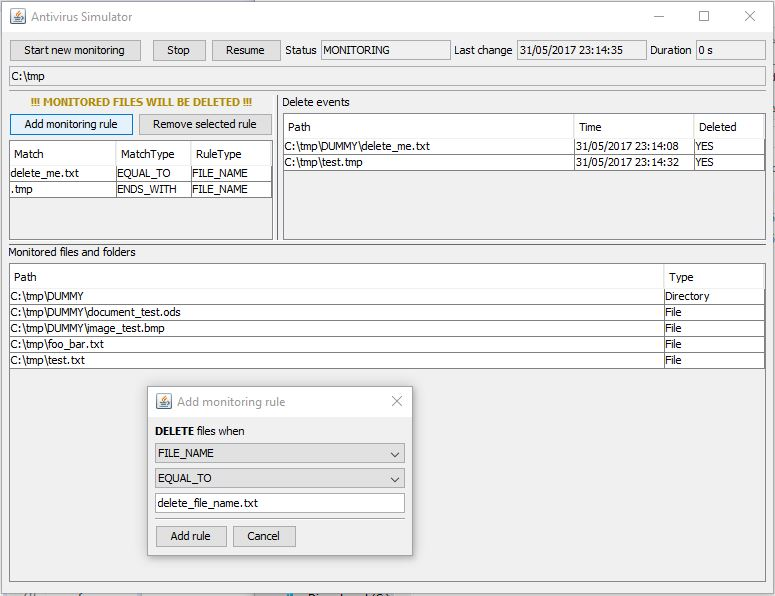
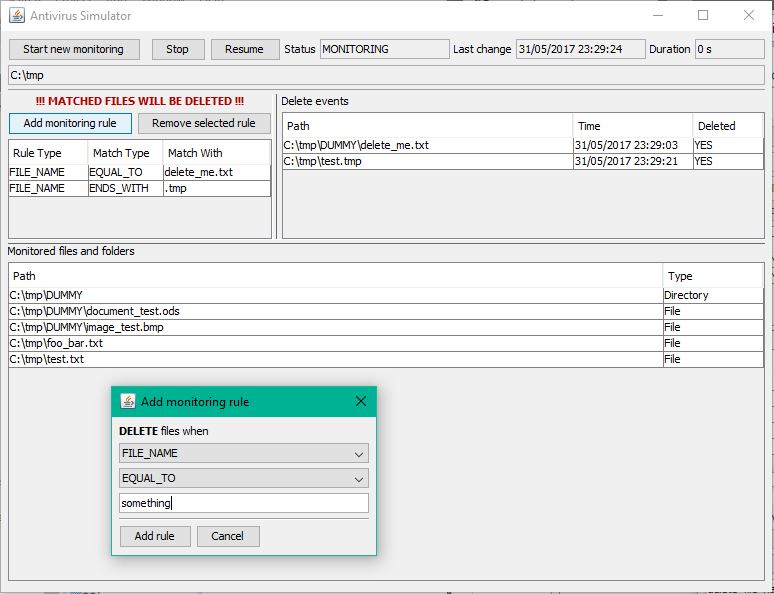
Visual adjustments

Changed region(s): [[0.0, 0.0, 1.0, 1.0], [0.9922, 0.303, 1.0, 0.4242], [0.8682, 0.4545, 0.8992, 0.5152]]

diff --git a/src/main/java/org/teste/avs/view/MonitorView.java b/src/main/java/org/teste/avs/view/MonitorView.java
@@ -96,9 +96,9 @@ public class MonitorView extends JFrame implements AntivirusSimulatorListener{
 
 		TableFieldBuilder builderRules = new TableFieldBuilder(MonitoringRule.class);
 		TableField[] fieldsRules = builderRules
-				.field("match", "Match").add()
-				.field("matchType", "MatchType").width("75!").add()
-				.field("ruleType", "RuleType").width("80!").add()
+				.field("ruleType", "Rule Type").width("80!").add()
+				.field("matchType", "Match Type").width("75!").add()
+				.field("match", "Match With").add()
 				.build();
 		tmMonitoringRules = new GenericTableModel<>(fieldsRules);
 		JTable jtRules = new JTable(tmMonitoringRules);
@@ -110,9 +110,10 @@ public class MonitorView extends JFrame implements AntivirusSimulatorListener{
 		jtfTimeOfLastChange.setEditable(false);
 		jtfDuration.setEditable(false);
 		
-		JLabel jlWarning = new JLabel("!!! MONITORED FILES WILL BE DELETED !!!", JLabel.CENTER);
+		JLabel jlWarning = new JLabel("!!! MATCHED FILES WILL BE DELETED !!!", JLabel.CENTER);
 		jlWarning.setFont(jlWarning.getFont().deriveFont(Font.BOLD));
-		jlWarning.setForeground(Color.ORANGE.darker());
+		jlWarning.setForeground(Color.RED.darker());
+		jlWarning.setToolTipText("...forever!");
 		
 		JPanel jpMonitoringRules = new JPanel(new MigLayout(new LC().noGrid().insetsAll("0")));
 		jpMonitoringRules.add(jlWarning, new CC().alignX("center").wrap());
